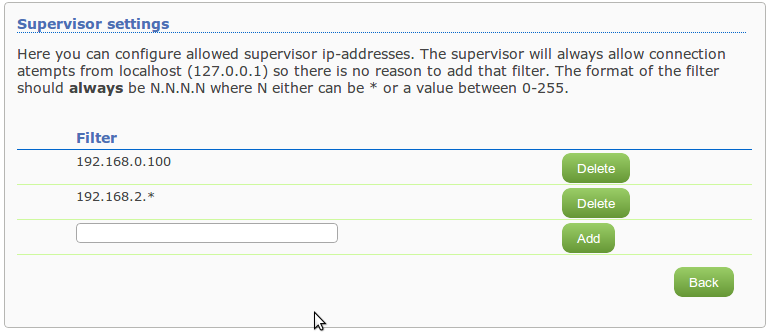
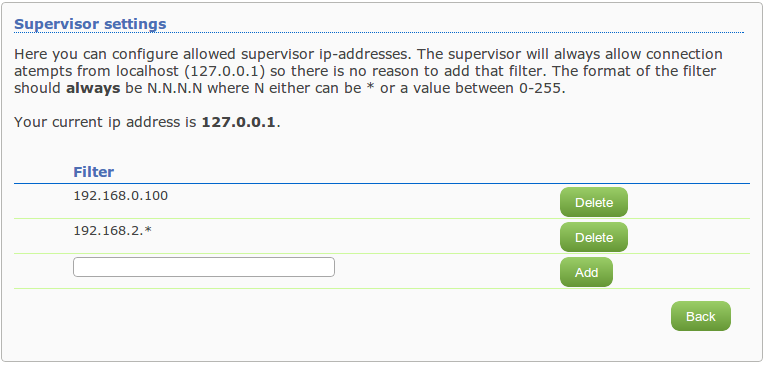
Updated supervisor documentation and added ip-address to supervisor gui

diff --git a/test/eu/baltrad/beastui/web/controller/SupervisorControllerTest.java b/test/eu/baltrad/beastui/web/controller/SupervisorControllerTest.java
@@ -106,10 +106,11 @@ public class SupervisorControllerTest extends TestCase {
     
     expect(hostManager.getPatterns()).andReturn(filters);
     expect(model.addAttribute("filters", filters)).andReturn(null);
-    
+    expect(request.getRemoteAddr()).andReturn("123.123.123.123");
+    expect(model.addAttribute("currentip", "123.123.123.123")).andReturn(null);
     replayAll();
     
-    String result = classUnderTest.supervisorSettings(model);
+    String result = classUnderTest.supervisorSettings(model, request);
     
     verifyAll();
     Assert.assertEquals("supervisorsettings", result);
@@ -123,10 +124,12 @@ public class SupervisorControllerTest extends TestCase {
     expect(hostManager.getPatterns()).andReturn(filters);
     expect(model.addAttribute("filter", "")).andReturn(null);
     expect(model.addAttribute("filters", filters)).andReturn(null);
-    
+    expect(request.getRemoteAddr()).andReturn("123.123.123.123");
+    expect(model.addAttribute("currentip", "123.123.123.123")).andReturn(null);
+
     replayAll();
     
-    String result = classUnderTest.addSupervisorSetting(model, "192.168.1.1");
+    String result = classUnderTest.addSupervisorSetting(model, "192.168.1.1", request);
     
     verifyAll();
     Assert.assertEquals("supervisorsettings", result);
@@ -139,10 +142,13 @@ public class SupervisorControllerTest extends TestCase {
     expect(hostManager.getPatterns()).andReturn(filters);
     expect(model.addAttribute("filter", "192.168.1.1")).andReturn(null);
     expect(model.addAttribute("filters", filters)).andReturn(null);
+    expect(request.getRemoteAddr()).andReturn("123.123.123.123");
+    expect(model.addAttribute("currentip", "123.123.123.123")).andReturn(null);
     expect(model.addAttribute("emessage", "Filter already registered")).andReturn(null);
+    
     replayAll();
     
-    String result = classUnderTest.addSupervisorSetting(model, "192.168.1.1");
+    String result = classUnderTest.addSupervisorSetting(model, "192.168.1.1", request);
     
     verifyAll();
     Assert.assertEquals("supervisorsettings", result);
@@ -155,10 +161,12 @@ public class SupervisorControllerTest extends TestCase {
     expectLastCall().andThrow(new RuntimeException("bad"));
     expect(hostManager.getPatterns()).andReturn(filters);
     expect(model.addAttribute("filters", filters)).andReturn(null);
+    expect(request.getRemoteAddr()).andReturn("123.123.123.123");
+    expect(model.addAttribute("currentip", "123.123.123.123")).andReturn(null);
     expect(model.addAttribute("emessage", "Failed to remove filter: bad")).andReturn(null);
     replayAll();
     
-    String result = classUnderTest.removeSupervisorSetting(model, "192.168.1.1");
+    String result = classUnderTest.removeSupervisorSetting(model, "192.168.1.1",request);
     
     verifyAll();
     Assert.assertEquals("supervisorsettings", result);
@@ -172,10 +180,12 @@ public class SupervisorControllerTest extends TestCase {
     
     expect(hostManager.getPatterns()).andReturn(filters);
     expect(model.addAttribute("filters", filters)).andReturn(null);
+    expect(request.getRemoteAddr()).andReturn("123.123.123.123");
+    expect(model.addAttribute("currentip", "123.123.123.123")).andReturn(null);
 
     replayAll();
     
-    String result = classUnderTest.removeSupervisorSetting(model, "192.168.1.1");
+    String result = classUnderTest.removeSupervisorSetting(model, "192.168.1.1",request);
     
     verifyAll();
     Assert.assertEquals("supervisorsettings", result);

diff --git a/src/java/eu/baltrad/beastui/web/controller/SupervisorController.java b/src/java/eu/baltrad/beastui/web/controller/SupervisorController.java
@@ -78,16 +78,19 @@ public class SupervisorController {
   }
 
   @RequestMapping(value = "/supervisorsettings.htm")
-  public String supervisorSettings(Model model) {
+  public String supervisorSettings(Model model,
+      HttpServletRequest request) {
     logger.debug("supervisorSettings(Model)");
     List<String> filters = hostManager.getPatterns();
     model.addAttribute("filters", filters);
+    model.addAttribute("currentip", request.getRemoteAddr());
     return "supervisorsettings";
   }
 
   @RequestMapping(value = "/addsupervisorsetting.htm")
   public String addSupervisorSetting(Model model,
-      @RequestParam(value = "filter", required = false) String filter) {
+      @RequestParam(value = "filter", required = false) String filter,
+      HttpServletRequest request) {
     String emessage = null;
     String nfilter = filter;
     logger.debug("createSupervisor(Model)");
@@ -109,6 +112,7 @@ public class SupervisorController {
     List<String> filters = hostManager.getPatterns();
     model.addAttribute("filter", nfilter);
     model.addAttribute("filters", filters);
+    model.addAttribute("currentip", request.getRemoteAddr());
     if (emessage != null) {
       model.addAttribute("emessage", emessage);
     }
@@ -117,7 +121,8 @@ public class SupervisorController {
 
   @RequestMapping(value = "/removesupervisorsetting.htm")
   public String removeSupervisorSetting(Model model,
-      @RequestParam(value = "filter", required = false) String filter) {
+      @RequestParam(value = "filter", required = false) String filter,
+      HttpServletRequest request) {
     String emessage = null;
     logger.debug("removeSupervisorSetting");
     if (filter != null) {
@@ -129,6 +134,7 @@ public class SupervisorController {
     }
     List<String> filters = hostManager.getPatterns();
     model.addAttribute("filters", filters);
+    model.addAttribute("currentip", request.getRemoteAddr());
     if (emessage != null) {
       model.addAttribute("emessage", emessage);
     }
